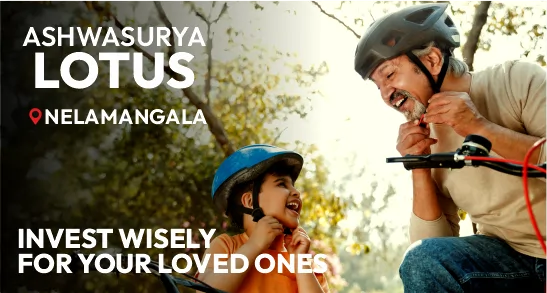
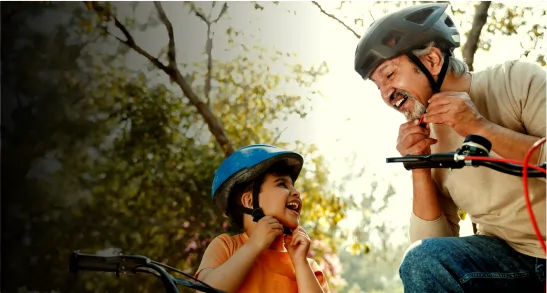
change all projects contents

Changed region(s): [[0.0311, 0.7679, 0.6216, 0.9522], [0.0311, 0.0922, 0.3729, 0.3072], [0.0311, 0.3686, 0.3729, 0.43]]

diff --git a/src/Pages/Home/OurProjects.jsx b/src/Pages/Home/OurProjects.jsx
@@ -1,5 +1,6 @@
 import { BiSolidRightArrow } from "react-icons/bi";
 import { Link } from "react-router-dom";
+import { FaLocationDot } from "react-icons/fa6";
 
 import image1 from '../../assets/ruthvi.webp';
 import image2 from '../../assets/destiny.webp';
@@ -12,35 +13,133 @@ const OurProjects = () => {
         <section className="py-10 md:px-20 px-4">
             <h2 className="md:text-5xl text-3xl md:mb-10 mb-5 md:text-right">OUR <span className='text-slate-400'>PROJECTS</span></h2>
             <div className="grid md:grid-cols-3 grid-cols-1 md:grid-rows-4 gap-5 md:text-base text-xs">
-                <div className="bg-slate-200 min-h-48 relative md:col-span-2 overflow-hidden">
-                    <img src={image1} alt="" className="w-full h-full hover:scale-105 duration-200" />
-                    <div className="absolute md:bottom-3 md:right-4 bottom-1 right-1">
-                        <Link className="flex items-center gap-1 hover:outline outline-1 hover:bg-white px-2 py-1">EXPLORE <BiSolidRightArrow className="text-slate-500" /></Link>
+
+                <div className="min-h-24 relative md:col-span-2 overflow-hidden">
+                    <img src={image1} alt="" className="w-full h-full hover:scale-105 duration-200 object-cover" />
+                    <div className="absolute text-sm md:bottom-2 md:right-2 bottom-1 right-1">
+                        <Link className="flex items-center gap-1 hover:outline outline-1 hover:bg-white px-2 py-1 md:text-base text-[10px]">EXPLORE <BiSolidRightArrow className="text-slate-500" /></Link>
                     </div>
+                    {/* text contents start 1 */}
+                    <div className="absolute md:right-5 md:top-5 top-2 right-2">
+                        <div className="text-center font-bold">
+                            <p className="md:text-lg text-[10px] md:-mb-3 -mb-2">ASHWASURYA</p>
+                            <h2 className="md:text-4xl text-lg">RUTHVI</h2>
+                        </div>
+                        <div className="flex items-center justify-center md:text-xs text-[6px] gap-1 md:mt-2 -mt-1">
+                            <FaLocationDot className="text-red-700" />
+                            <span>
+                                NELAMANGALA
+                            </span>
+                        </div>
+                    </div>
+                    <div className="absolute md:bottom-5 bottom-2 left-1/2 -translate-x-1/2">
+                        <h2 className="md:text-2xl font-bold md:leading-5 leading-3">
+                            EMBRACE THOSE <br /> MOMENTS & LIVE FULLY
+                        </h2>
+                    </div>
+                    {/* text contents end 1 */}
                 </div>
-                <div className="bg-slate-200 min-h-48 relative row-span-4 overflow-hidden">
-                    <img src={image2} alt="" className="w-full h-full hover:scale-105 duration-200" />
-                    <div className="absolute md:bottom-3 md:right-4 bottom-1 right-1">
-                        <Link className="flex items-center gap-1 hover:outline outline-1 text-white hover:text-black hover:bg-white px-2 py-1">EXPLORE <BiSolidRightArrow className="text-slate-500" /></Link>
+                <div className="min-h-48 relative row-span-4 overflow-hidden">
+                    <img src={image2} alt="" className="w-full h-full hover:scale-105 duration-200 object-cover" />
+                    <div className="absolute text-sm md:bottom-2 md:right-2 bottom-1 right-1">
+                        <Link className="flex items-center gap-1 hover:outline outline-1 text-white hover:text-black hover:bg-white px-2 py-1 md:text-base text-[10px]">EXPLORE <BiSolidRightArrow className="text-slate-500" /></Link>
                     </div>
+                    {/* text contents start 2 */}
+                    <div className="absolute left-1/2 -translate-x-1/2 top-5 text-white">
+                        <div className="text-center font-bold">
+                            <p className="md:text-xl text-sm md:-mb-2 -mb-1">ASHWASURYA</p>
+                            <h2 className="md:text-3xl text-2xl text-nowrap">DESTINY FARM</h2>
+                        </div>
+                        <div className="flex items-center justify-center gap-1 md:mt-3 mt-2">
+                            <FaLocationDot className="text-red-700" />
+                            <span>
+                                MADDUR
+                            </span>
+                        </div>
+                    </div>
+                    <div className="absolute bottom-28 left-5 text-white">
+                        <h2 className="text-2xl font-bold leading-5">
+                            UNEARTH THE MAGIC <br /> OF OUR FARM LAND.
+                        </h2>
+                    </div>
+                    {/* text contents end 2 */}
                 </div>
-                <div className="bg-slate-200 min-h-48 relative row-span-2 overflow-hidden">
-                    <img src={image3} alt="" className="w-full h-full hover:scale-105 duration-200" />
-                    <div className="absolute md:bottom-3 md:right-4 bottom-1 right-1">
-                        <Link className="flex items-center gap-1 hover:outline outline-1 text-white hover:text-black hover:bg-white px-2 py-1">EXPLORE <BiSolidRightArrow className="text-slate-300" /></Link>
+                <div className="min-h-48 relative row-span-2 overflow-hidden">
+                    <img src={image3} alt="" className="w-full h-full hover:scale-105 duration-200 object-cover" />
+                    <div className="absolute text-sm md:bottom-2 md:right-2 bottom-1 right-1">
+                        <Link className="flex items-center gap-1 hover:outline outline-1 text-white hover:text-black hover:bg-white px-2 py-1 md:text-base text-[10px]">EXPLORE <BiSolidRightArrow className="text-slate-300" /></Link>
                     </div>
+
+                    {/* text contents start 3 */}
+                    <div className="absolute left-5 top-5 text-white">
+                        <div className="text-center font-bold">
+                            <p className="md:text-lg text-xs md:-mb-2 -mb-1">ASHWASURYA</p>
+                            <h2 className="md:text-4xl text-2xl">JYESTA</h2>
+                        </div>
+                        <div className="flex items-center justify-center gap-1 md:mt-3 mt-2">
+                            <FaLocationDot className="text-red-700" />
+                            <span>
+                                KANAKAPURA
+                            </span>
+                        </div>
+                    </div>
+                    <div className="absolute md:bottom-20 bottom-12 left-5 text-white">
+                        <h2 className="text-2xl font-bold leading-5">
+                            PREMIUM PLOTS <br />AT NELAMANGALA
+                        </h2>
+                    </div>
+                    {/* text contents end 3 */}
                 </div>
-                <div className="bg-slate-200 min-h-48 relative row-span-3 overflow-hidden">
-                    <img src={image4} alt="" className="w-full h-full hover:scale-105 duration-200" />
-                    <div className="absolute md:bottom-3 md:right-4 bottom-1 right-1">
-                        <Link className="flex items-center gap-1 hover:outline outline-1 text-white hover:text-black hover:bg-white px-2 py-1">EXPLORE <BiSolidRightArrow className="text-slate-500" /></Link>
+                <div className="min-h-48 relative row-span-3 overflow-hidden">
+                    <img src={image4} alt="" className="w-full h-full hover:scale-105 duration-200 object-cover" />
+                    <div className="absolute text-sm md:bottom-2 md:right-2 bottom-1 right-1">
+                        <Link className="flex items-center gap-1 hover:outline outline-1 text-white hover:text-black hover:bg-white px-2 py-1 md:text-base text-[10px]">EXPLORE <BiSolidRightArrow className="text-slate-500" /></Link>
                     </div>
+                    {/* text contents start 4 */}
+                    <div className="absolute left-1/2 -translate-x-1/2 top-5 text-white">
+                        <div className="text-center font-bold">
+                            <p className="md:text-lg text-xs md:-mb-2 -mb-1">ASHWASURYA</p>
+                            <h2 className="md:text-4xl text-2xl text-nowrap">ATHARVA RITEWAY</h2>
+                        </div>
+                        <div className="flex items-center justify-center gap-1 md:mt-3 mt-2">
+                            <FaLocationDot className="text-red-700" />
+                            <span>
+                                OFF MYSORE ROAD
+                            </span>
+                        </div>
+                    </div>
+                    <div className="absolute md:bottom-28 bottom-12 left-5 text-white">
+                        <h2 className="text-3xl font-bold leading-6">
+                            CRAFTING HAPPINESS <br /> IN EVERY PLOTS
+                        </h2>
+                    </div>
+                    {/* text contents end 4 */}
                 </div>
-                <div className="bg-slate-200 min-h-48 relative overflow-hidden">
-                    <img src={image5} alt="" className="w-full h-full hover:scale-105 duration-200" />
-                    <div className="absolute md:bottom-3 md:right-4 bottom-1 right-1">
-                        <Link className="flex items-center gap-1 hover:outline outline-1 text-white hover:text-black hover:bg-white px-2 py-1">EXPLORE <BiSolidRightArrow className="text-slate-300" /></Link>
+                <div className="min-h-48 relative overflow-hidden">
+                    <img src={image5} alt="" className="w-full h-full hover:scale-105 duration-200 object-cover" />
+                    <div className="absolute text-sm md:bottom-2 md:right-2 bottom-1 right-1">
+                        <Link className="flex items-center gap-1 hover:outline outline-1 text-slate-300 hover:text-black hover:bg-white px-2 py-1 md:text-base text-[10px]">EXPLORE <BiSolidRightArrow className="text-slate-300" /></Link>
                     </div>
+                    {/* text contents start 5 */}
+                    <div className="absolute md:left-5 left-2 md:top-5 top-2 text-white">
+                        <div className="text-center font-bold">
+                            <p className="md:text-sm text-xs md:-mb-2 -mb-1">ASHWASURYA</p>
+                            <h2 className="md:text-3xl text-2xl text-nowrap">LOTUS</h2>
+                        </div>
+                        <div className="flex items-center justify-center gap-1 md:mt-3 mt-2 md:text-xs text-[8px]">
+                            <FaLocationDot className="text-red-700" />
+                            <span>
+                                NELAMANGALA
+                            </span>
+                        </div>
+                    </div>
+                    <div className="absolute md:bottom-5 bottom-2 md:left-5 left-2 text-white">
+                        <h2 className="md:text-2xl font-bold md:leading-6 leading-3">
+                            INVEST WISELY <br />FOR YOUR LOVED ONES
+
+                        </h2>
+                    </div>
+                    {/* text contents end 5 */}
                 </div>
             </div>
             <div className="md:mt-14 mt-8 grid place-content-center">
